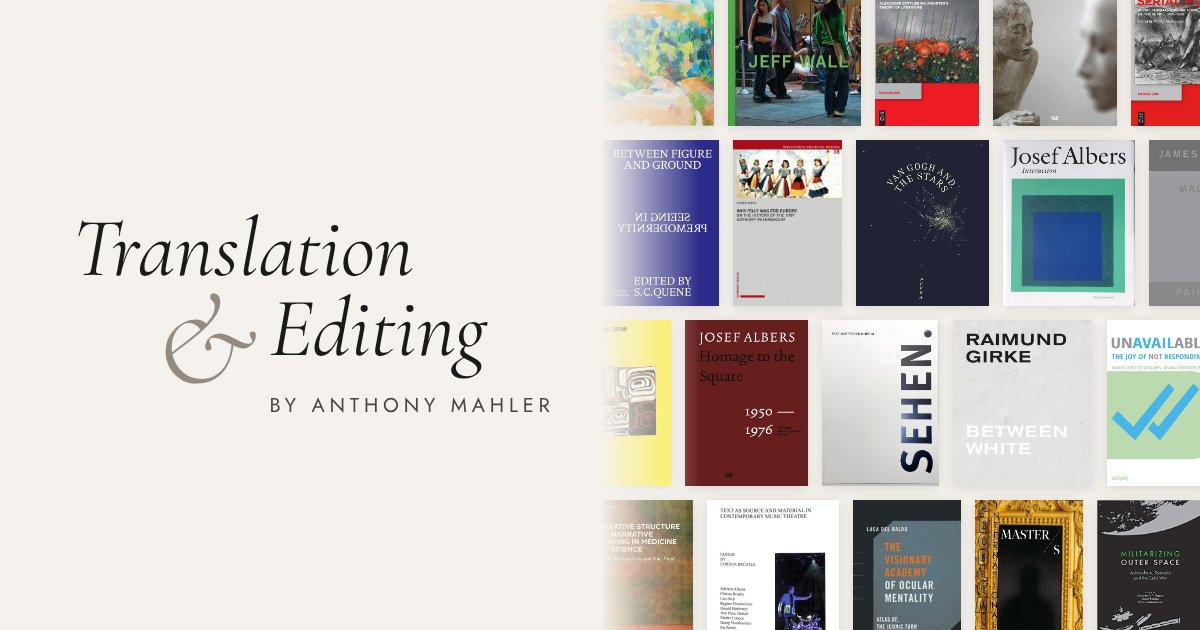
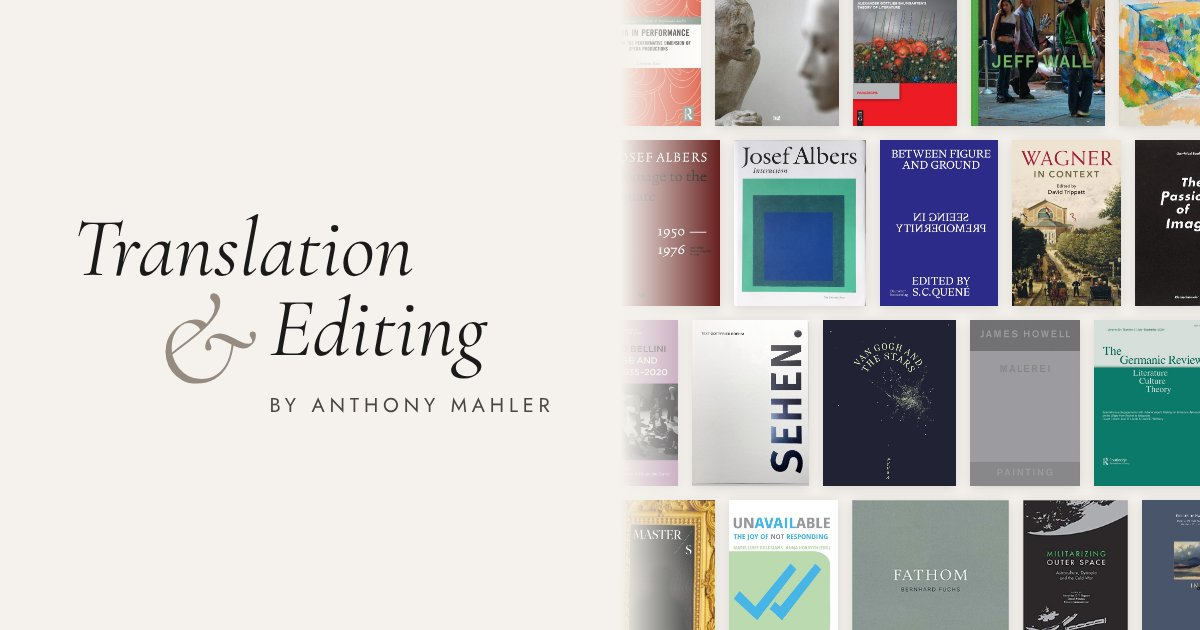
German link-preview image for the German page
- New images/og-image-de.jpg with the German wordmark
- Both preview images rebuilt from highlight covers chosen by title
  (the old block used file positions that changed in the remix)

Claude-Session: https://claude.ai/code/session_01My32gqNAccyKupmnXSsdjE

diff --git a/index.html b/index.html
@@ -23,10 +23,10 @@
 <meta property="og:title" content="Übersetzung &amp; Lektorat von Anthony Mahler">
 <meta property="og:description" content="Übersetzer Deutsch–Englisch und Lektor für Englisch in Basel, Schweiz. Übersetzung und Lektorat für Geistes- und Sozialwissenschaften, Kunst und Kultur: Bücher, Ausstellungskataloge, wissenschaftliche Aufsätze und Förderanträge.">
 <meta property="og:url" content="https://anthonymahler.ch/">
-<meta property="og:image" content="https://anthonymahler.ch/images/og-image.jpg">
+<meta property="og:image" content="https://anthonymahler.ch/images/og-image-de.jpg">
 <meta property="og:image:width" content="1200">
 <meta property="og:image:height" content="630">
-<meta property="og:image:alt" content="Translation &amp; Editing by Anthony Mahler, neben Buchumschlägen seiner veröffentlichten Übersetzungen">
+<meta property="og:image:alt" content="Übersetzung &amp; Lektorat von Anthony Mahler, neben Buchumschlägen seiner veröffentlichten Übersetzungen">
 <meta property="og:locale" content="de_CH">
 <meta property="og:locale:alternate" content="en_GB">
 <meta name="twitter:card" content="summary_large_image">
@@ -78,7 +78,7 @@
       "name": "Übersetzung & Lektorat von Anthony Mahler",
       "description": "Übersetzer Deutsch–Englisch und Lektor für Englisch in Basel, Schweiz. Übersetzung und Lektorat für Geistes- und Sozialwissenschaften, Kunst und Kultur: Bücher, Ausstellungskataloge, wissenschaftliche Aufsätze und Förderanträge.",
       "url": "https://anthonymahler.ch/",
-      "image": "https://anthonymahler.ch/images/og-image.jpg",
+      "image": "https://anthonymahler.ch/images/og-image-de.jpg",
       "logo": "https://anthonymahler.ch/images/icons/icon-512.png",
       "email": "mailto:anthony.mahler@gmail.com",
       "founder": {

diff --git a/README.md b/README.md
@@ -17,7 +17,7 @@ either file in a browser and it works.
 | `images/covers/` | Book covers, named `band1-01.jpg`, `band1-02.jpg`, … by band and position |
 | `images/portrait.jpg` | Portrait for the About section |
 | `images/icons/`, `favicon.ico` | The ampersand browser-tab and home-screen icons |
-| `images/og-image.jpg` | The preview image shown when the link is shared |
+| `images/og-image-de.jpg`, `images/og-image.jpg` | The preview images (German, English) shown when the link is shared |
 | `robots.txt`, `sitemap.xml`, `llms.txt` | Help search engines and AI assistants find and describe the site |
 | `PROJECT-BRIEF.md` | The design brief |
 
